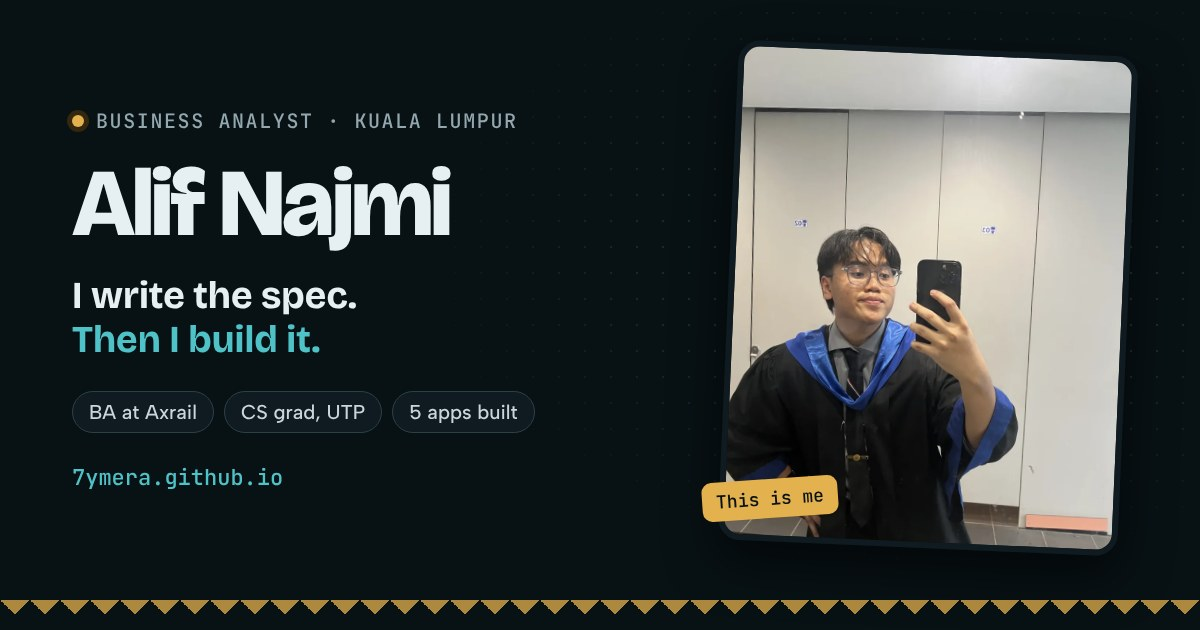
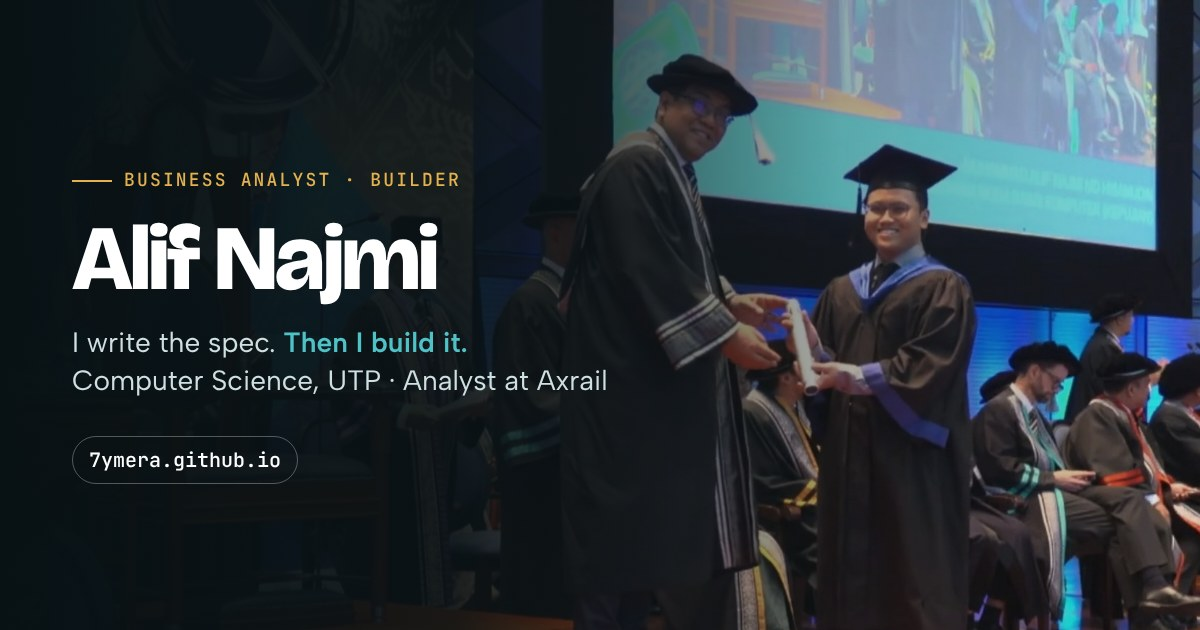
Use the on-stage photo for the site's link preview
Claude-Session: https://claude.ai/code/session_013mFPc9xaZMatxJU14wNon4

diff --git a/index.html b/index.html
@@ -7,10 +7,10 @@
 <meta name="description" content="Alif Najmi: business analyst and builder from Malaysia. A school dashboard in daily use, civic apps, and the projects behind them.">
 <meta property="og:title" content="Alif Najmi">
 <meta property="og:description" content="I write the spec. Then I build it. Projects, journey and links.">
-<meta property="og:image" content="https://7ymera.github.io/assets/og-card.jpg">
+<meta property="og:image" content="https://7ymera.github.io/assets/og-card.jpg?v=2">
 <meta property="og:image:width" content="1200">
 <meta property="og:image:height" content="630">
-<meta property="og:image:alt" content="Alif Najmi, business analyst. I write the spec. Then I build it.">
+<meta property="og:image:alt" content="Alif Najmi on stage at his UTP convocation. I write the spec. Then I build it.">
 <meta property="og:type" content="website">
 <meta property="og:url" content="https://7ymera.github.io/">
 <meta name="twitter:card" content="summary_large_image">
